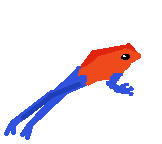
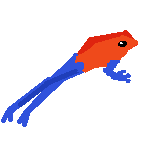
cosmetic touches

Changed region(s): [[0.0, 0.1944, 0.9722, 0.9722]]

diff --git a/js/app.js b/js/app.js
@@ -13,8 +13,6 @@ let continueButton = document.getElementById("continue");
 let restartButton = document.getElementById("restart");
 let objective = document.getElementById("objective");
 
-
-
 // Set game canvas width and height
 game.setAttribute("width", getComputedStyle(game).width); // width=280
 game.setAttribute("height", getComputedStyle(game).height); // height=800
@@ -32,21 +30,22 @@ function clearBoard() {
 }
 clearBoard();
 
-// define things to draw blocks
+// helperfunciton to draw blocks
 function renderBlock(color, x, y) {
     ctx.fillStyle = color;
     ctx.fillRect(x, y, 20, 20);
 }
+
 let treasureDesc = "red";
 let stoneDesc = "gray";
 let mudDesc = "sienna";
 let leafDesc = "lime";
 
 // define things to render creatures
-function Creature(x, y, color, width, height) {
+function Creature(x, y, color, width, height, src) {
     this.x = x;
     this.y = y;
-    this.color = color;
+    this.color = color; 
     this.width = width;
     this.height = height;
     this.alive = true;
@@ -56,9 +55,22 @@ function Creature(x, y, color, width, height) {
     this.jumping = false;
     this.grounded = false;
     this.facing = "right";
+    this.image = new Image();
+    if (src) {
+        this.image.src = src;
+    }
     this.render = function() {
-        ctx.fillStyle = this.color;
-        ctx.fillRect(this.x, this.y, this.width, this.height);
+        // ctx.fillStyle = this.color;
+        // ctx.fillRect(this.x, this.y, this.width, this.height);
+        if (this.image.src){
+            if (this.facing == "left") {
+                this.image.src = "img/frogLeft.png";
+            } else {
+                this.image.src = src;
+            }
+            ctx.imageSmoothingEnabled = true;
+            ctx.drawImage(this.image, this.x-10, this.y-10, this.width+20, this.height+20);
+        }
     }
 }
 
@@ -146,22 +158,44 @@ function newTerrain() {
 
 // render pre-existing terrain
 function renderTerrain() {
+    // void ctx.drawImage(image, dx, dy, dWidth, dHeight);
+    // ctx.drawImage(image, sx, sy, sWidth, sHeight, dx, dy, dWidth, dHeight);
     // loop through all the spaces in gameBoard to render each 
     // type of block
     for (let i = 0; i < gameBoard.length; i++) {
         for (let j = 0; j < gameBoard[i].length; j++) {
+            let blockImg = new Image();
+            blockImg.src = "img/bgtextures.png"
+            ctx.imageSmoothingEnabled = false;
             switch (gameBoard[i][j]) {
                 case ("treasure"):
-                    renderBlock(treasureDesc, i*20, j*20);
+                    ctx.drawImage(blockImg, 12, 0, 5, 5, i*20, j*20, 20, 20);
                     break;
                 case ("stone"):
-                    renderBlock(stoneDesc, i*20, j*20);
+                    ctx.drawImage(blockImg, 4, 0, 4, 4, i*20, j*20, 20, 20);
                     break;
                 case ("mud"):
-                    renderBlock(mudDesc, i*20, j*20);
+                    ctx.drawImage(blockImg, 0, 0, 4, 4, i*20, j*20, 20, 20);
                     break;
                 case ("leaf"):
-                    renderBlock(leafDesc, i*20, j*20);
+                    if (j < gameBoard[i].length - 6) {
+                        for (let k=0; k<6; k++) {
+                            if (gameBoard[i][j+k] != "leaf") {
+                                ctx.drawImage(blockImg, 8, 0, 4, 4, i*20, j*20, 20, 20);
+                                k = 6;
+                            }
+                            // draw tall leaf if there are six in a row
+                            if (k == 5) {
+                                blockImg.src = "img/leaf2.png"
+                                ctx.drawImage(blockImg, i*20-10, j*20-10, 40, 140);
+                                j += 5;
+                            }
+                        }
+                    } else {
+                    ctx.drawImage(blockImg, 8, 0, 4, 4, i*20, j*20, 20, 20);
+                    // blockImg.src = "img/tool2.png";
+                    // ctx.drawImage(blockImg, i*20, j*20, 20, 20)
+                    }
             }
         }
     }
@@ -169,8 +203,8 @@ function renderTerrain() {
 
 // initialize the terrain, creatures, and physics
 newTerrain();
-var frog = new Creature(Math.floor(Math.random()*game.width), 120, "purple", 30, 30); // change height to 120
-var fly = new Creature(Math.floor(Math.random()*game.width), 20, "black", 20, 20);
+var frog = new Creature(Math.floor(Math.random()*game.width), 120, "purple", 30, 30, "img/frog1.png"); // change height to 120
+var fly = new Creature(Math.floor(Math.random()*game.width), 20, "black", 20, 20, "img/fly.png");
 var friction = 0.8
 var gravity = 0.8;
 var collisionObjects = [];
@@ -182,8 +216,8 @@ var invSelected = "none";
 function gameInit() {
     clearBoard();
     newTerrain();
-    frog = new Creature(Math.floor(Math.random()*game.width), 120, "purple", 30, 30); // change height to 120
-    fly = new Creature(Math.floor(Math.random()*game.width), 20, "black", 20, 20);
+    frog = new Creature(Math.floor(Math.random()*game.width), 120, "purple", 30, 30, "img/frog1.png"); // change height to 120
+    fly = new Creature(Math.floor(Math.random()*game.width), 20, "black", 20, 20, "img/fly.png");
     findCollisionObjects();
     inventory = {};
     invSelected = "none";
@@ -316,7 +350,8 @@ function inventoryAdd(x, y){
         }
         inventory[type]++;
         // update the gui
-        document.querySelector(`.${type}`).innerText = inventory[type] + " " + type;
+        // document.querySelector(`.${type}`).innerHTML = `<image src=img/${type}.png height="20" width="20"> x ${inventory[type]}`;
+        document.querySelector(`.${type}`).innerText = `${type} x ${inventory[type]}`;
         // give text feedback
         message.innerText = "Picked up " + type + "!";
         // check if won game 
@@ -407,10 +442,10 @@ function tongue(e) {
     let mouseY = e.offsetY;
     // check if object in range
     // determine start point
-    let startX = frog.x;
-    let startY = frog.y + frog.height/2;
+    let startX = frog.x-5;
+    let startY = frog.y+5;
     if (frog.facing == "right") { // draw tongue starting on right side of frog
-        startX = frog.x + frog.width;
+        startX = frog.x + frog.width+5;
     } 
     let hit = checkTongueCollison(startX, startY, mouseX, mouseY);
     // if tongue touches fly: kill fly
@@ -425,10 +460,10 @@ function tongue(e) {
 // draw tongue from frog to specified point
 function drawTongue(finalX, finalY){
     // determine start point
-    let startX = frog.x;
-    let startY = frog.y + frog.height/2;
+    let startX = frog.x-5;
+    let startY = frog.y+5;
     if (frog.facing == "right") { // draw tongue starting on right side of frog
-        startX = frog.x + frog.width;
+        startX = frog.x + frog.width+5;
     } 
     // draw the line
     ctx.beginPath();
@@ -456,7 +491,10 @@ function placeBlock(e) {
         inventory[invSelected]--
         // update number on GUI
         let invSlot = document.getElementsByClassName(invSelected)[0];
-        invSlot.innerText = inventory[invSelected] + " " + invSelected;
+        if (invSlot) {
+            // invSlot.innerHTML = `<image src=img/${invSelected}.png height="20" width="20"> x ${inventory[invSelected]}`;
+            invSlot.innerText = `${invSelected} x ${inventory[invSelected]}`;
+        }
         // remove key if it was the last one
         if (inventory[invSelected] == 0) {
             delete inventory[invSelected];
@@ -509,6 +547,8 @@ function gameLoop() {
         frog.jumping = false;
     }
 
+    // render terrain
+    renderTerrain();
     // draw frog
     frog.render();
     // draw fly
@@ -519,8 +559,6 @@ function gameLoop() {
         }
         fly.render();
     }
-    // render terrain
-    renderTerrain();
 
     // if inv selected, place block instead of tongue
     if (invSelected != "none") {

diff --git a/style/style.css b/style/style.css
@@ -4,11 +4,13 @@ body {
     background: rgb(39, 21, 14);
     color: white;
 }
+
 #container {
     width: 800px;
     display: flex;
     flex-direction: column;
     justify-items: center;
+    margin: 0 auto;
 }
 #title {
     flex-direction: column;
